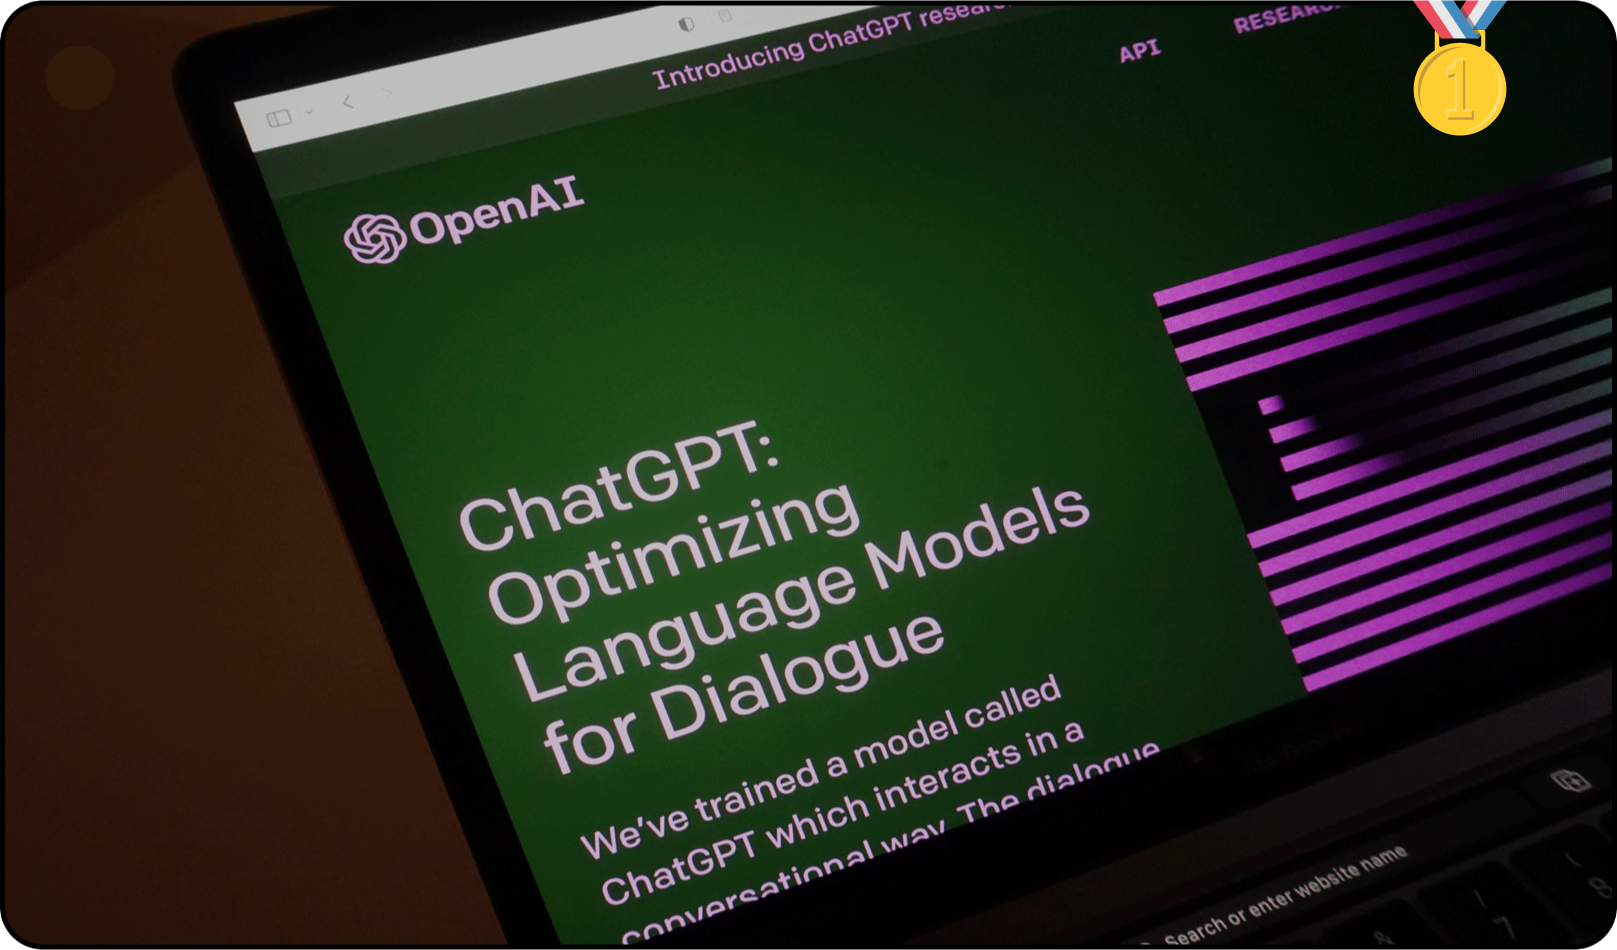
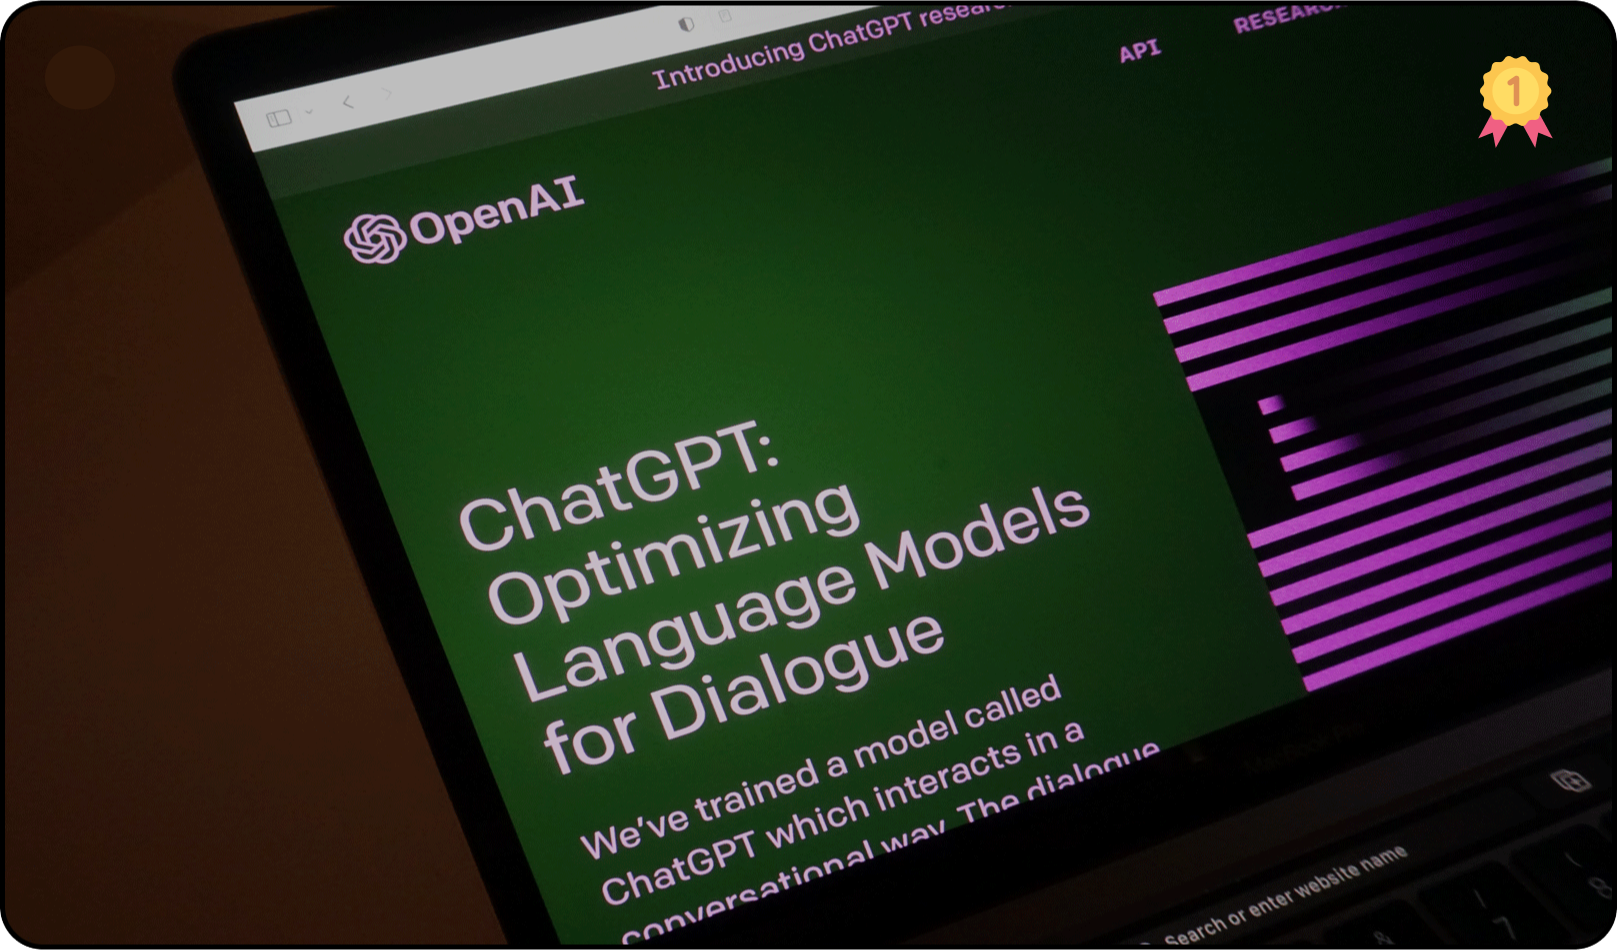
added badge

Changed region(s): [[0.8658, 0.0, 0.9586, 0.1526]]

diff --git a/index.html b/index.html
@@ -91,7 +91,7 @@
       </div> 
       </div>
       <a href="./Chatgpt/chatgpt_design.html">
-        <img src="./assets/chatgpt_hero 2.png" alt="Project 3 Image">
+        <img src="./assets/chatgpt_hero 1.png" alt="Project 3 Image">
       </a>
      </div>
 
